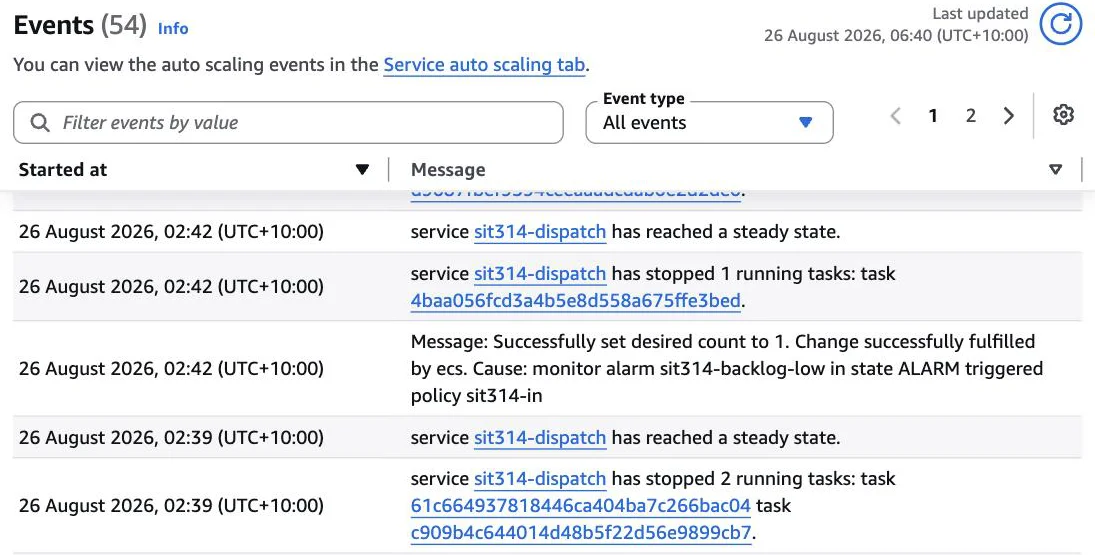
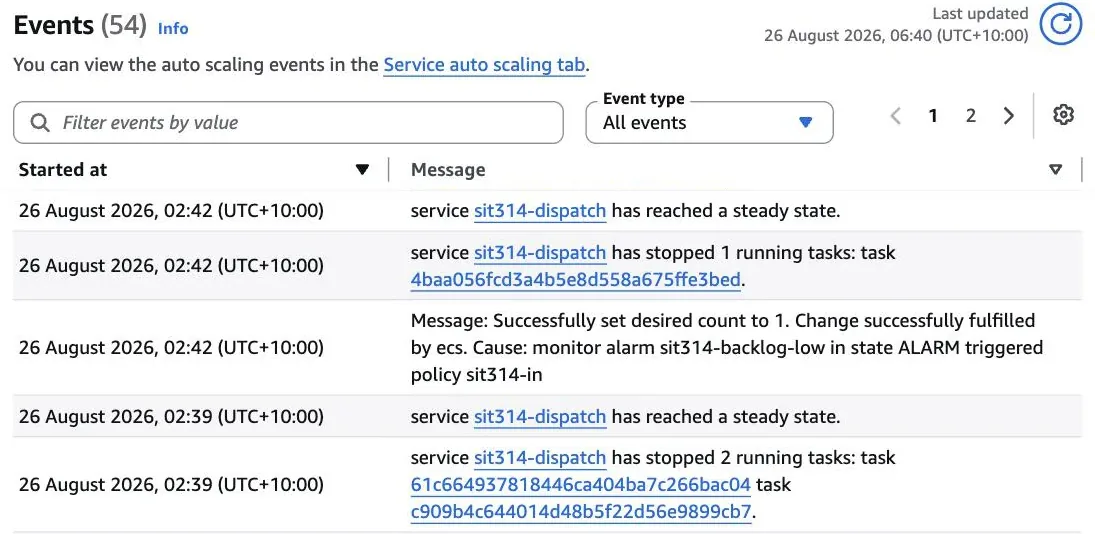
fleet-platform: correct conflict and scaling claims, borderless log blocks
Claude-Session: https://claude.ai/code/session_01K44cDh2WvWMAHA7k8fudJW

diff --git a/src/app/projects/fleet-platform/page.tsx b/src/app/projects/fleet-platform/page.tsx
@@ -40,7 +40,6 @@ const LOG = {
   lineHeight: 1.7,
   color: 'var(--fg-dim)',
   background: 'var(--bg-2)',
-  border: '1px solid var(--border)',
   borderRadius: 2,
   padding: '14px 16px',
   margin: 0,
@@ -127,7 +126,7 @@ const TIMELINE = [
   { date: '3 Aug 2026', title: 'First commit', body: 'The ingest flow, state service, dispatch worker, autoscaler and load harness, all running on my laptop.' },
   { date: '22 Aug 2026', title: 'The run set', body: 'Ingest, matching under load with one worker and autoscaled, and monitoring, from one script. The batching comparison ran straight after.' },
   { date: '24 Aug 2026', title: 'Write path', body: 'One more ramp to watch the trip writer, then the final commit with the experiments and batched matching.' },
-  { date: '25–26 Aug 2026', title: 'AWS slice', body: 'SQS, two Fargate services, Cloud Map, Secrets Manager and three IoT Core vehicles. Built, measured and torn down in one session.' },
+  { date: '25–26 Aug 2026', title: 'AWS slice', body: 'SQS, two Fargate services, Cloud Map, Secrets Manager and three IoT Core vehicles. Built, measured, then torn down on 26 Aug.' },
   { date: '27 Aug 2026', title: 'Batching write-up', body: 'The comparison of nearest-car-first against a batched rule, written up as a post.' },
   { date: '27 Oct 2026', title: 'Re-run for this page', body: 'The local experiments again, from a copy of the repo. Same ceiling.', current: true },
 ]
@@ -196,7 +195,7 @@ export default function FleetPlatformPage() {
         <div style={{ marginBottom: 40 }}>
           <div className="section-label" style={{ fontFamily: MONO }}>Context</div>
           <p style={{ ...PROSE, margin: '0 0 14px' }}>
-            The final project for SIT314, Software Architecture and Scalability for the Internet of Things, at Deakin in Trimester 2 2026. It is a solo project. The brief was a cloud backend for a driverless-taxi fleet that keeps working as the load grows.
+            The final project for SIT314, Software Architecture and Scalability for the Internet of Things, at Deakin in Trimester 2 2026. The brief was a cloud backend for a driverless-taxi fleet that keeps working as the load grows.
           </p>
           <p style={{ ...PROSE, margin: 0 }}>
             Nothing here is live. I built the AWS part on my own account, measured it and tore it down on 26 Aug 2026, and the repo is private. Every number on this page comes from a run log.
@@ -228,7 +227,7 @@ export default function FleetPlatformPage() {
         {/* Matching under load */}
         <div className="section-label" style={{ fontFamily: MONO }}>Matching under load</div>
         <p style={{ ...PROSE, margin: '0 0 14px' }}>
-          A load harness sends ride requests in five stages, from 200 a second up to 3,000 and back down to 800. Each request goes on a queue. A dispatch worker takes eight at a time, asks the state service for idle cars nearby and claims one. A claim can lose to another worker, and then it tries the next car on its list. Over the whole run set that happened on about one claim in fourteen: 47,031 conflicts in 602,554 claims.
+          A load harness sends ride requests in five stages, from 200 a second up to 3,000 and back down to 800. Each request goes on a queue. A dispatch worker takes eight at a time, asks the state service for idle cars nearby and claims one. A claim can lose to another worker, and then it tries the next car on its list. Across the two runs below that happened on about one claim in twelve: 27,429 lost claims out of 321,340.
         </p>
         <p style={{ ...PROSE, margin: '0 0 20px' }}>
           I ran the ramp twice, once with a single worker and once with an autoscaler free to run up to six.
@@ -247,7 +246,7 @@ export default function FleetPlatformPage() {
           <div style={LOG_CAPTION}>The load harness, one-worker run, 22 Aug 2026. Latency columns in ms, distances in metres. Trimmed to the stage table.</div>
         </div>
         <p style={{ ...PROSE, margin: '0 0 14px' }}>
-          Both runs flatten near 950 matches a second, and both leave about 61,000 requests without a car at the 3,000 stage. Latency held at 45 ms there and no request went unanswered, so the worker kept up with everything it was given. What ran out was free cars. Each match holds a car for 300 ms, and the simulator keeps it busy for about half a second more. So the limit was the fleet, which is the opposite of what I planned for: I spent the project scaling the matching service. The autoscaler never went past three workers.
+          Both runs flatten near 950 matches a second, and both leave about 61,000 requests without a car at the 3,000 stage. p95 latency held at 45 ms there and no request went unanswered, so the worker kept up with everything it was given. Each match holds a car for 300 ms, and the simulator then keeps it on a trip for half a second to a second. I read the limit as free cars running out, though my counters could not tell an empty candidate list apart from a car another worker claimed first. Either way it was not the matching service, which is the part I spent the project scaling. The autoscaler never went past three workers.
         </p>
         <p style={{ ...PROSE, color: 'var(--muted)', margin: '0 0 40px' }}>
           I ran the same script again on 27 Oct 2026, from a copy of the repo, without Postgres, on a laptop busy with other work. Ingest came out identical, because the simulator is seeded. Matching peaked at 968.6 a second with one worker and 971.2 autoscaled. Same ceiling.
@@ -263,7 +262,7 @@ export default function FleetPlatformPage() {
           <div style={LOG_CAPTION}>Trip service counters and a row count, 24 Aug 2026. Trimmed to the start, the peak and the drain.</div>
         </div>
         <p style={{ ...PROSE, margin: '0 0 40px' }}>
-          The buffer peaked at 30,783 rows and took about a minute to clear after the load stopped. The worker matched 79,983 rides, the trip service wrote 79,983 rows, and the table held 79,983. The rows arrived late, but they all arrived. Postgres was nowhere near its limit. The 500 is a constant in my own flush loop.
+          The buffer peaked at 30,783 rows and took about a minute to clear after the load stopped. The worker matched 79,983 rides, the trip service wrote 79,983 rows, and the table held 79,983. The rows arrived late, but they all arrived. The cap is not Postgres: the 500 is a constant in my own flush loop.
         </p>
 
         {/* AWS */}
@@ -316,7 +315,7 @@ export default function FleetPlatformPage() {
             src="/projects/fleet-platform/aws-ecs-events.webp"
             alt="The ECS console event list for sit314-dispatch on 26 August 2026: at 02:42 desired count set to 1 by the sit314-backlog-low alarm and policy sit314-in, one task stopped; at 02:39 two tasks stopped."
             width={1095}
-            height={555}
+            height={534}
             caption="The ECS console's event list for the dispatch service after the run, cropped to the events. Times are AEST."
           />
         </div>
@@ -325,7 +324,7 @@ export default function FleetPlatformPage() {
           <div style={LOG_CAPTION}>The load harness on the SQS path, 26 Aug 2026. Distances in metres. It reports no latency, because the answers come back through a queue it polls.</div>
         </div>
         <p style={{ ...PROSE, margin: '0 0 40px' }}>
-          The task count went 1, 4, 6, then back to 4, 2 and 1, and AWS records the alarm and policy behind every step. 36,898 of 57,900 requests were matched. Almost all of the 21,002 misses are in the 200-a-second stage, and fleet size explains them on its own: a match holds a car for 20 s here, so 198 a second needs about 3,960 cars, and there were 2,000. That is the same finding as on the laptop. My poller saw a peak of 19,187 waiting, while CloudWatch&apos;s highest one-minute average was 15,071. The alarm reads the average, which is part of why scaling out lags.
+          The task count went 1, 4, 6, then back to 4, 2 and 1, and AWS records the alarm and policy behind every step. 36,898 of 57,900 requests were matched. Almost all of the 21,002 misses are in the 200-a-second stage, and fleet size explains them on its own: a match holds a car for 20 s here, so 198 a second needs about 3,960 cars, and there were 2,000. That points the same way as the laptop runs. My poller saw a peak of 19,187 waiting, while CloudWatch&apos;s highest one-minute average was 15,071. The alarm reads the average, which is part of why scaling out lags.
         </p>
 
         {/* Security */}
@@ -390,10 +389,10 @@ export default function FleetPlatformPage() {
         {/* What I'd do differently */}
         <div className="section-label" style={{ fontFamily: MONO }}>What I&apos;d do differently</div>
         <p style={{ ...PROSE, color: 'var(--muted)', margin: '0 0 14px' }}>
-          Move to AWS early. I left it until the end, so the experiments ran on two shapes of infrastructure instead of one. I also scaled the wrong thing: the matcher never became the bottleneck, and the fleet did.
+          Move to AWS early. I left it until the end, so the experiments ran on two shapes of infrastructure instead of one. I also scaled the wrong thing: the matcher never became the bottleneck, and the fleet most likely did.
         </p>
         <p style={{ ...PROSE, color: 'var(--muted)', margin: '0 0 40px' }}>
-          Two limits are my own doing. The trip writer&apos;s fixed 500 rows a second is the kind of hard-coded constant the unit warned about. And the scaling policy reads raw queue depth, so at six tasks the backlog can drop under 50 while the load is still high, and it scales in anyway. It should divide the depth by the number of tasks.
+          Two limits are my own doing. The trip writer&apos;s 500 rows a second is a constant I hard-coded. And the scaling policy reads raw queue depth. Once enough tasks keep up, the depth sits near zero however busy the system is, so the low alarm could remove tasks that are still needed. On this run the scale-in came after the load had dropped, so I never saw it, but I would scale on the arrival rate instead.
         </p>
 
         {/* Stack */}
